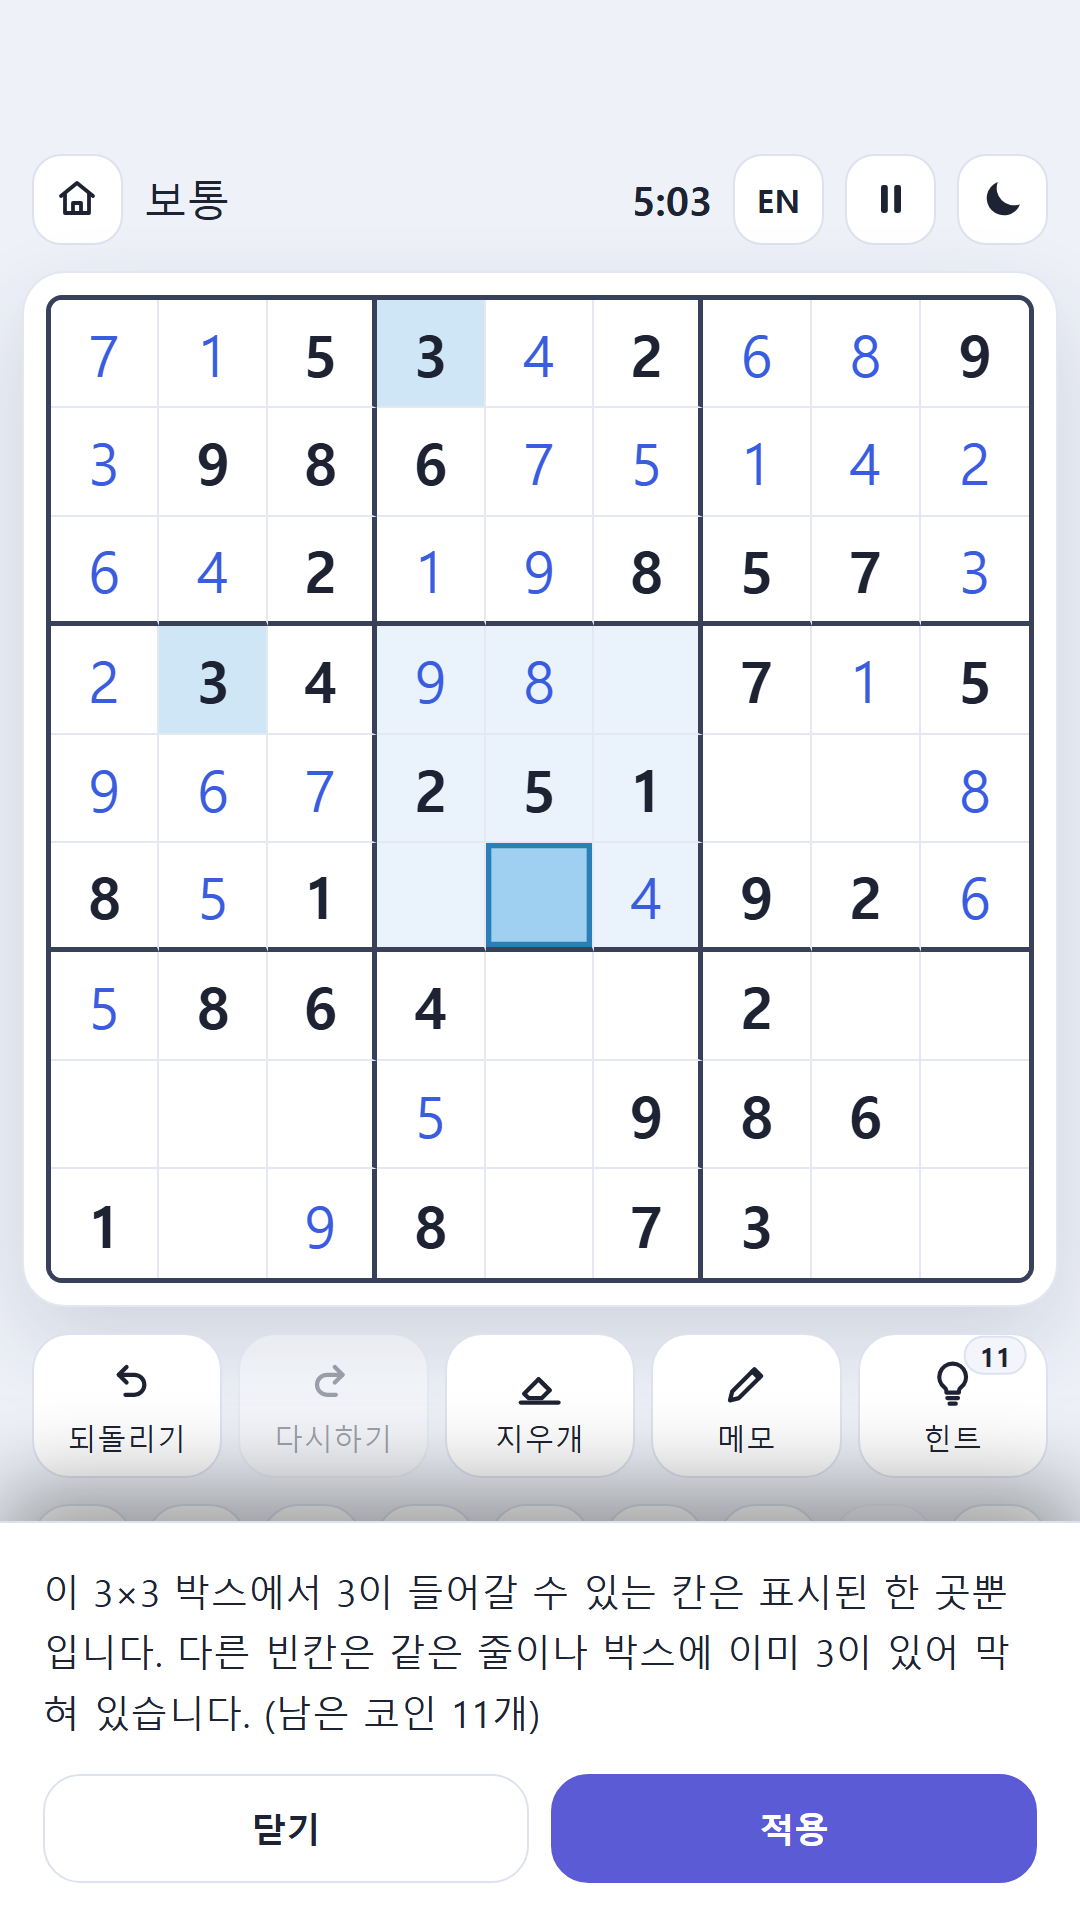
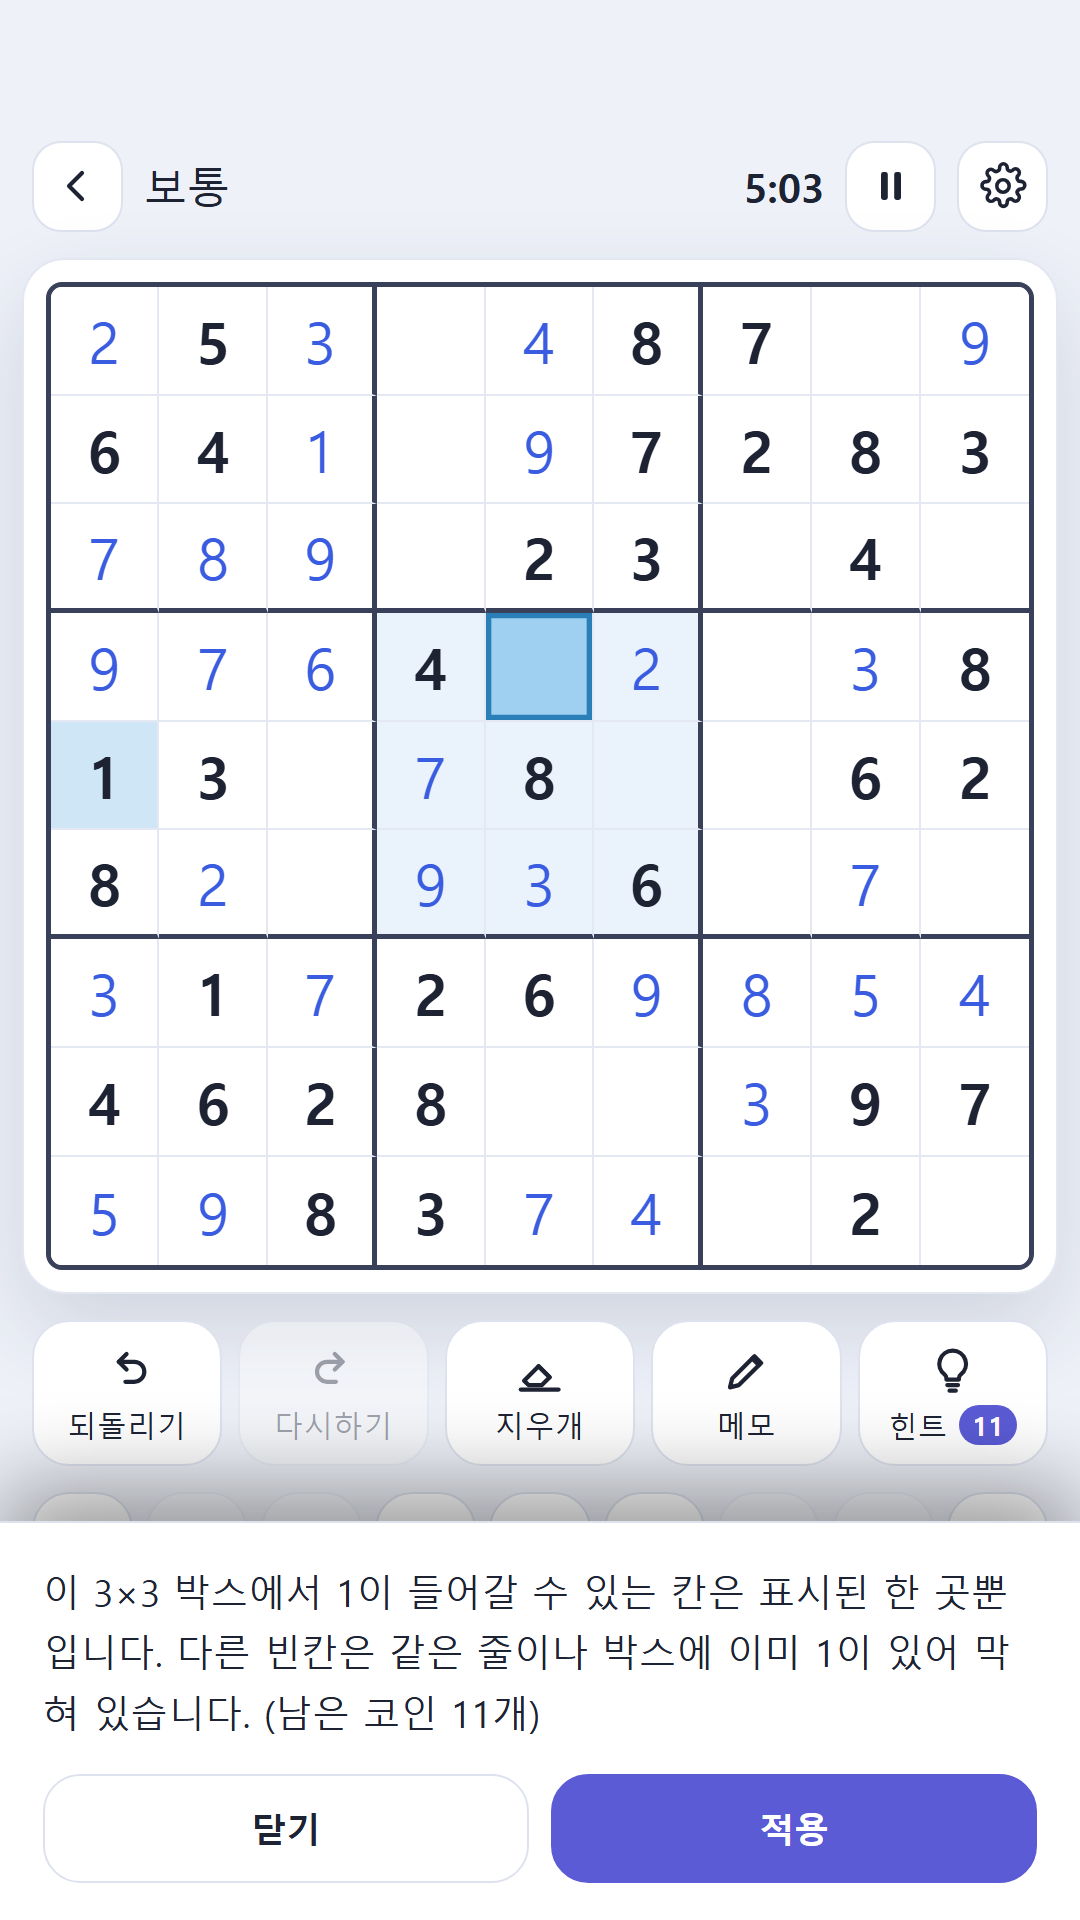
게임 화면 정리 (1-13) — 새 게임 제거·뒤로 가기·옵션·힌트 개수
하단 "새 게임"을 없앴다. 숫자 패드 바로 아래에 있어 게임 중에 잘못 누르면
판이 날아갔다. 그 자리는 2군 배너 광고(320×50)를 위해 비워 두는데, 높이는
지금부터 차지하게 했다 — 나중에 광고가 들어와도 보드 크기와 배치가 흔들리지
않는다. 새 게임은 홈과 완료 화면에서 시작한다.

헤더는 홈 아이콘을 뒤로 화살표로 바꾸고 오른쪽에 옵션(톱니)을 더했다. 버튼이
너무 많아져서, 언어와 테마는 옵션 안으로 옮겼다 — 켜고 끄는 스위치가 아니라
지금 값을 보여 주고 누르면 바뀌는 행이다. 홈 화면의 두 버튼은 그대로 둔다.

힌트에 남은 개수는 전구 우상단의 작은 회색 배지였는데, 그것이 무엇의 개수인지
읽히지 않았다. 라벨과 같은 줄에 두고 강조색 알약으로 바꿨다.

가로 폰에서 아래 칸이 41px(버튼)에서 50px(배너)로 커지며 3px 넘쳐, 숫자 키
높이 공식의 상수를 200 에서 212 로 맞췄다.

검증: 7개 뷰포트 × 6개 화면 넘침 0(설정 시트의 닫기가 화면 안에 있는지 포함 —
행이 늘어 낮은 화면에서 밀려나기에 시트 바닥에 붙였다). 테스트 332건 통과.
스토어 스크린샷 14장도 바뀐 화면으로 다시 찍었다.

Claude-Session: https://claude.ai/code/session_01WmQVhUnsNdVUHnQAEa6Dzo

diff --git a/sudoku/index.html b/sudoku/index.html
@@ -345,13 +345,15 @@ button {
 .tool[aria-pressed="true"] {
   background: var(--accent); border-color: var(--accent); color: var(--accent-ink);
 }
-/* 메모 모드일 때 몇 개 남았는지 같은 보조 표시 */
-.tool .badge {
-  position: absolute; transform: translate(16px, -8px);
-  font-size: 10px; font-weight: 700;
-  background: var(--ui-panel-2); color: var(--ui-text);
-  border: 1px solid var(--ui-line); border-radius: 999px; padding: 0 5px;
+/* 힌트에 남은 개수를 붙여 둔다. 전구 옆 작은 배지로 띄웠을 때는 그것이 무엇의
+   개수인지 읽히지 않아, 라벨과 같은 줄에 두고 색을 준다. */
+.tool-line { display: flex; align-items: center; gap: 4px; }
+.tool .count {
+  font-size: 10px; font-weight: 800; line-height: 1.5;
+  background: var(--accent); color: var(--accent-ink);
+  border-radius: 999px; padding: 0 5px; min-width: 16px; text-align: center;
 }
+.tool[aria-disabled="true"] .count { background: var(--ui-line); color: var(--ui-dim); }
 .tool { position: relative; }
 
 /* ===== 숫자 패드 ===== */
@@ -390,6 +392,9 @@ button {
   max-width: 100%;
   display: flex; gap: 8px; align-items: center;
 }
+/* 배너 광고 자리(320×50). 광고가 없는 동안에도 높이를 차지해 둔다 —
+   나중에 채워질 때 보드가 밀리지 않게 하려는 것이다. */
+.adslot { flex: 1; height: 50px; }
 .btn {
   flex: 1;
   padding: 11px 12px; border-radius: 14px;
@@ -483,6 +488,11 @@ button {
 .opt-text { display: flex; flex-direction: column; gap: 2px; margin-right: auto; }
 .opt-label { font-size: 14px; font-weight: 700; }
 .opt-sub { font-size: 11px; color: var(--ui-dim); line-height: 1.4; }
+/* 켜고 끄는 것이 아니라 값을 고르는 행 (언어 · 화면) */
+.opt-value {
+  flex: 0 0 auto; font-size: 13px; font-weight: 700; color: var(--accent);
+  padding: 4px 10px; border-radius: 999px; background: var(--accent-soft);
+}
 .switch {
   flex: 0 0 42px; width: 42px; height: 24px; border-radius: 999px;
   background: var(--ui-line); position: relative; transition: background-color .18s ease;
@@ -496,6 +506,12 @@ button {
 @media (prefers-reduced-motion: reduce) { .switch, .switch i { transition: none; } }
 
 #settingList .optrow:first-child { margin-top: 0; }
+/* 설정은 행이 많아 낮은 화면에서 시트가 스크롤된다. 닫기는 늘 바닥에 붙여 둔다. */
+#ovSettings .row {
+  position: sticky; bottom: -18px;
+  margin: 14px -20px -18px; padding: 10px 20px 18px;
+  background: var(--ui-panel);
+}
 
 /* 숫자 우선 모드에서 고른 숫자 */
 .num.picked {
@@ -568,8 +584,10 @@ ul.help span { font-size: 12.5px; color: var(--ui-dim); line-height: 1.55; }
   .pad { grid-template-columns: repeat(3, 1fr); gap: 8px; }
   /* 옆 칸은 폭이 넓어서 1:1.25 비율을 그대로 두면 키 하나가 120px 을 넘는다.
      높이는 화면에 맞춘다 — 60px 로 고정하면 360px 높이에서 옆 칸이 14px 넘쳤다
-     (헤더 42 + 도구 55 + 패드 196 + 새 게임 41 + 사이 여백 + 아래 padding 10). */
-  .num { aspect-ratio: auto; height: min(60px, calc((100vh - 200px) / 3)); font-size: 22px; }
+     (헤더 42 + 도구 55 + 패드 196 + 아래 칸 50 + 사이 여백 + 아래 padding 10).
+     빼는 값은 그 합에서 패드를 뺀 것이다. 아래 칸이 새 게임 버튼(41)에서 광고
+     자리(50)로 바뀌면서 212 가 됐다. */
+  .num { aspect-ratio: auto; height: min(60px, calc((100vh - 212px) / 3)); font-size: 22px; }
   #app > header { margin-top: 0; }
   .side > .footer { margin-bottom: 0; }
 }
@@ -613,6 +631,10 @@ ul.help span { font-size: 12.5px; color: var(--ui-dim); line-height: 1.55; }
   </symbol>
   <symbol id="i-close" viewBox="0 0 24 24" fill="none" stroke="currentColor" stroke-width="2.1" stroke-linecap="round">
     <path d="M6.5 6.5l11 11M17.5 6.5l-11 11"/>
+  </symbol>
+  <symbol id="i-back" viewBox="0 0 24 24" fill="none" stroke="currentColor" stroke-width="2.1"
+          stroke-linecap="round" stroke-linejoin="round">
+    <path d="M14.5 5.5L8 12l6.5 6.5"/>
   </symbol>
   <symbol id="i-home" viewBox="0 0 24 24" fill="none" stroke="currentColor" stroke-width="1.9"
           stroke-linecap="round" stroke-linejoin="round">
@@ -686,12 +708,11 @@ ul.help span { font-size: 12.5px; color: var(--ui-dim); line-height: 1.55; }
 
 <div id="app" hidden>
   <header>
-    <button class="icon-btn" id="btnHome" data-i18n-aria="home" aria-label="홈"><svg><use href="#i-home"/></svg></button>
+    <button class="icon-btn" id="btnHome" data-i18n-aria="back" aria-label="뒤로"><svg><use href="#i-back"/></svg></button>
     <span class="diff" id="diffBadge">보통</span>
     <span class="timer" id="timer" aria-live="off">0:00</span>
-    <button class="icon-btn lang" id="btnLang" data-i18n-aria="lang" aria-label="언어 전환">EN</button>
     <button class="icon-btn" id="btnPause" data-i18n-aria="pause" aria-label="일시정지"><svg><use href="#i-pause"/></svg></button>
-    <button class="icon-btn" id="btnTheme" data-i18n-aria="theme" aria-label="테마 전환"><svg><use href="#i-sun"/></svg></button>
+    <button class="icon-btn" id="btnGameSettings" data-i18n-aria="settings" aria-label="설정"><svg><use href="#i-gear"/></svg></button>
   </header>
 
   <div class="board-card" id="boardCard">
@@ -705,12 +726,13 @@ ul.help span { font-size: 12.5px; color: var(--ui-dim); line-height: 1.55; }
       <button class="tool" id="btnRedo"><svg><use href="#i-redo"/></svg><span data-i18n="redo">다시하기</span></button>
       <button class="tool" id="btnErase"><svg><use href="#i-eraser"/></svg><span data-i18n="erase">지우개</span></button>
       <button class="tool" id="btnNotes" aria-pressed="false"><svg><use href="#i-pencil"/></svg><span data-i18n="notes">메모</span></button>
-      <button class="tool" id="btnHint"><svg><use href="#i-bulb"/></svg><span data-i18n="hint">힌트</span><span class="badge" id="hintCoins">0</span></button>
+      <button class="tool" id="btnHint"><svg><use href="#i-bulb"/></svg><span class="tool-line"><span data-i18n="hint">힌트</span><span class="count" id="hintCoins">0</span></span></button>
     </div>
     <div class="pad" id="pad"></div>
-    <div class="footer">
-      <button class="btn primary" id="btnNew"><svg><use href="#i-new"/></svg><span data-i18n="newGame">새 게임</span></button>
-    </div>
+    <!-- 새 게임 버튼이 있던 자리. 게임 중에 잘못 눌러 판이 날아가는 일이 있어 없앴고,
+         2군의 배너 광고(320×50)를 여기에 넣는다. 지금은 비어 있지만 자리는 잡아 둔다 —
+         나중에 광고가 들어와도 보드 크기와 배치가 흔들리지 않게 하기 위해서다. -->
+    <div class="footer"><div class="adslot" id="adSlot"></div></div>
   </div>
 </div>
 
@@ -1144,7 +1166,7 @@ const I18N = {
     appName: "브레인 스도쿠 도쿠도쿠",
     appName1: "브레인 스도쿠", appName2: "도쿠도쿠",
     boardLabel: "스도쿠 보드",
-    lang: "언어 전환", pause: "일시정지", stats: "기록", theme: "테마 전환",
+    lang: "언어 전환", pause: "일시정지", stats: "기록", theme: "테마 전환", back: "뒤로",
     undo: "되돌리기", redo: "다시하기", erase: "지우개", notes: "메모", hint: "힌트",
     newGame: "새 게임", cancel: "취소", close: "닫기",
     start: "시작", startNotes: "자동 메모 사용 시작",
@@ -1195,6 +1217,9 @@ const I18N = {
     dailyDone: "완료",
     solvedCount: n => "총 " + n + "판 완료",
     help: "도움말", gotIt: "알겠습니다", settings: "설정", settingsTitle: "설정",
+    setLang: ["언어", "앱에 쓰는 말을 바꿉니다."],
+    setTheme: ["화면", "밝은 화면과 어두운 화면을 오갑니다."],
+    themeValue: { light: "밝게", dark: "어둡게" },
     setNumberFirst: ["숫자 먼저 고르기", "숫자를 고른 뒤 칸을 눌러 채웁니다. 같은 숫자를 여러 칸에 넣을 때 빠릅니다."],
     setAutoNotes: ["메모 자동 채우기", "새 게임을 시작할 때 모든 빈칸에 후보를 적어 둡니다."],
     setHaptics: ["진동", "숫자를 놓거나 퍼즐을 끝냈을 때 짧게 울립니다."],
@@ -1228,7 +1253,7 @@ const I18N = {
     appName: "Brain Sudoku Dokudoku",
     appName1: "Brain Sudoku", appName2: "Dokudoku",
     boardLabel: "Sudoku board",
-    lang: "Change language", pause: "Pause", stats: "Statistics", theme: "Toggle theme",
+    lang: "Change language", pause: "Pause", stats: "Statistics", theme: "Toggle theme", back: "Back",
     undo: "Undo", redo: "Redo", erase: "Erase", notes: "Notes", hint: "Hint",
     newGame: "New game", cancel: "Cancel", close: "Close",
     start: "Start", startNotes: "Start with auto notes",
@@ -1279,6 +1304,9 @@ const I18N = {
     dailyDone: "Done",
     solvedCount: n => n + (n === 1 ? " puzzle solved" : " puzzles solved"),
     help: "Help", gotIt: "Got it", settings: "Settings", settingsTitle: "Settings",
+    setLang: ["Language", "Change the language the app is in."],
+    setTheme: ["Appearance", "Switch between the light and dark screen."],
+    themeValue: { light: "Light", dark: "Dark" },
     setNumberFirst: ["Pick the number first", "Choose a number, then tap cells to place it. Faster when filling the same digit repeatedly."],
     setAutoNotes: ["Fill notes automatically", "Write every candidate into the empty cells when a game starts."],
     setHaptics: ["Vibration", "A short buzz when you place a number or finish a puzzle."],
@@ -2046,6 +2074,9 @@ function computeAutoNotes(st) {
 
 /* ---------- 설정 시트 ---------- */
 const SETTING_ROWS = [
+  // 켜고 끄는 것이 아니라 값을 고르는 행. 게임 헤더가 좁아 옵션 안으로 옮겼다.
+  { key: "lang",  i18n: "setLang",  pick: () => (LANG === "en" ? "English" : "한국어") },
+  { key: "theme", i18n: "setTheme", pick: () => L().themeValue[themeNow()] },
   { key: "numberFirst", i18n: "setNumberFirst" },
   { key: "autoNotes",   i18n: "setAutoNotes" },   // 저장 위치가 달라 따로 다룬다
   { key: "haptics",     i18n: "setHaptics" },
@@ -2057,6 +2088,8 @@ function settingOn(key) {
   return key === "autoNotes" ? autoNotesOn() : !!settings[key];
 }
 
+const themeNow = () => (document.documentElement.dataset.theme === "dark" ? "dark" : "light");
+
 function openSettings() {
   const list = $("settingList");
   list.textContent = "";
@@ -2065,7 +2098,7 @@ function openSettings() {
     const b = document.createElement("button");
     b.className = "optrow";
     b.dataset.key = row.key;
-    b.setAttribute("aria-pressed", String(settingOn(row.key)));
+    if (!row.pick) b.setAttribute("aria-pressed", String(settingOn(row.key)));
 
     const txt = document.createElement("span");
     txt.className = "opt-text";
@@ -2073,11 +2106,18 @@ function openSettings() {
     const sb = document.createElement("span"); sb.className = "opt-sub"; sb.textContent = sub;
     txt.append(l, sb);
 
-    const sw = document.createElement("span");
-    sw.className = "switch";
-    sw.appendChild(document.createElement("i"));
+    let right;
+    if (row.pick) {
+      right = document.createElement("span");
+      right.className = "opt-value";
+      right.textContent = row.pick();
+    } else {
+      right = document.createElement("span");
+      right.className = "switch";
+      right.appendChild(document.createElement("i"));
+    }
 
-    b.append(txt, sw);
+    b.append(txt, right);
     list.appendChild(b);
   }
   openOverlay("ovSettings");
@@ -2302,9 +2342,7 @@ function applyLang(lang) {
   }
 
   // 버튼에는 지금 언어가 아니라 "누르면 갈 언어"를 보여 준다.
-  const other = LANG === "ko" ? "EN" : "한";
-  $("btnLang").textContent = other;
-  $("btnLangHome").textContent = other;
+  $("btnLangHome").textContent = LANG === "ko" ? "EN" : "한";
 
   numEls.forEach((n, i) => n.btn.setAttribute("aria-label", L().padEnter(i + 1)));
   renderDiffList();
@@ -2316,10 +2354,8 @@ function applyLang(lang) {
 
 function applyTheme(t) {
   document.documentElement.dataset.theme = t;
-  for (const id of ["btnTheme", "btnThemeHome"]) {
-    const u = $(id).querySelector("use");
-    if (u) u.setAttribute("href", t === "dark" ? "#i-sun" : "#i-moon");
-  }
+  const u = $("btnThemeHome").querySelector("use");
+  if (u) u.setAttribute("href", t === "dark" ? "#i-sun" : "#i-moon");
   const meta = document.querySelector('meta[name="theme-color"]');
   if (meta) meta.setAttribute("content", t === "dark" ? "#111420" : "#eef1f8");
   store(KEY_THEME, t);
@@ -2388,7 +2424,6 @@ $("btnStatsReset").addEventListener("click", () => {
   askConfirm(L().clearTitle, L().clearDesc, L().clearYes,
              () => { drop(KEY_STATS); openStats(); });
 });
-$("btnNew").addEventListener("click", openNewGame);
 $("btnNewCancel").addEventListener("click", () => {
   closeOverlay();
   if (view === "game" && S && !S.done) startTimer();
@@ -2401,12 +2436,10 @@ $("btnStartPlain").addEventListener("click", () => startFromSheet(false));
 $("btnStartNotes").addEventListener("click", () => startFromSheet(true));
 $("btnResultClose").addEventListener("click", closeOverlay);
 $("btnResultNew").addEventListener("click", openNewGame);
-$("btnTheme").addEventListener("click", toggleTheme);
 function toggleLang() { applyLang(LANG === "ko" ? "en" : "ko"); buzz(6); }
 function toggleTheme() {
   applyTheme(document.documentElement.dataset.theme === "dark" ? "light" : "dark");
 }
-$("btnLang").addEventListener("click", toggleLang);
 $("btnLangHome").addEventListener("click", toggleLang);
 $("btnThemeHome").addEventListener("click", toggleTheme);
 
@@ -2427,11 +2460,15 @@ $("btnHomeResume").addEventListener("click", () => {
   startTimer();
 });
 $("btnSettings").addEventListener("click", openSettings);
+$("btnGameSettings").addEventListener("click", () => { stopTimer(); openSettings(); });
 $("btnSettingsClose").addEventListener("click", closeOverlay);
 $("settingList").addEventListener("click", e => {
   const row = e.target.closest(".optrow");
   if (!row) return;
   const key = row.dataset.key;
+  // 값을 고르는 행은 눌러서 돌린다. 목록 전체를 다시 그려야 글자도 바뀐다.
+  if (key === "lang")  { toggleLang();  openSettings(); return; }
+  if (key === "theme") { toggleTheme(); openSettings(); return; }
   const next = row.getAttribute("aria-pressed") !== "true";
   if (key === "autoNotes") store(KEY_AUTONOTE, next);
   else setSetting(key, next);

diff --git a/sudoku/test/game.test.js b/sudoku/test/game.test.js
@@ -308,9 +308,14 @@ const ok = (n, c, e) => { if (c) pass++; else { fail++; console.log("  실패: "
     ok("잘못된 값은 기본값으로", T.settings.haptics === T.SETTING_DEFAULTS.haptics);
     ok("모르는 항목은 무시한다", T.settings.bogus === undefined);
 
+    // 켜고 끄는 행은 설정 기본값 전부 + 저장 위치가 다른 autoNotes 하나
+    const toggles = T.SETTING_ROWS.filter(r => !r.pick);
     ok("설정 목록이 모든 항목을 덮는다",
-       T.SETTING_ROWS.length === Object.keys(T.SETTING_DEFAULTS).length + 1,
-       `${T.SETTING_ROWS.length} rows`);
+       toggles.length === Object.keys(T.SETTING_DEFAULTS).length + 1,
+       `${toggles.length} toggles`);
+    // 값을 고르는 행(언어 · 화면)은 게임 헤더에서 옮겨 온 것이다
+    ok("값을 고르는 행이 둘 있다",
+       T.SETTING_ROWS.filter(r => r.pick).map(r => r.key).join(",") === "lang,theme");
   }
 
   console.log("== 17. 숫자 우선 입력 ==");

diff --git a/sudoku/BACKLOG.md b/sudoku/BACKLOG.md
@@ -41,6 +41,7 @@
 | 1-8 | 설정 화면 | **완료** | Home 의 톱니 버튼. 숫자 먼저 고르기 · 메모 자동 채우기 · 진동 · 오류 표시 · 시간 표시 다섯 가지 |
 | 1-9 | 첫 실행 사용법 안내 | **완료** | 첫 실행에 한 번 뜨고, 이후에는 Home 의 물음표 버튼으로 언제든 볼 수 있다. 입력·규칙·메모·힌트·데일리 다섯 가지 |
 | 1-10 | 입력 편의 — 숫자 우선 모드 | **완료** | 설정에서 켠다. 고른 숫자가 패드에서 강조되고 같은 숫자가 든 칸이 함께 보인다. 같은 숫자를 다시 누르면 해제 |
+| 1-13 | **게임 화면 정리** — 하단 새 게임 제거(광고 자리로 예약) · 상단 뒤로 가기 · 상단 오른쪽 옵션 · 힌트 남은 개수 | **완료** | 게임 중에 하단 "새 게임"을 잘못 눌러 판이 날아가는 일이 있어 없앴다. 그 자리는 2군 배너(320×50)를 위해 비워 두되 **높이는 지금부터 차지한다** — 나중에 광고가 들어와도 보드가 밀리지 않는다. 헤더는 홈 아이콘을 뒤로 화살표로 바꾸고 톱니(옵션)를 더했다. 자리를 내주려고 헤더의 언어·테마 버튼은 옵션 안으로 옮겼다(값을 고르는 행 두 개). 힌트 개수는 전구 옆 작은 배지에서 라벨과 같은 줄의 색 있는 알약으로 바꿨다 — 무엇의 개수인지 읽히지 않았다 |
 | 1-12 | **난이도 선택 시트 정리** — 난이도는 고르기만 하고, 시작은 아래 두 버튼으로 | **완료** | 난이도 이름을 가운데 정렬하고 "빈칸 xx개"를 없앴다. 고르면 바로 시작하던 것을 선택만 하도록 바꾸고, 아래에 "시작" / "자동 메모 사용 시작" 두 버튼을 뒀다(자동 메모 스위치를 대체한다). 취소 버튼은 우상단 X 로 바꿨다. 지난번에 고른 난이도를 기억한다(`KEY_LASTDIFF`) |
 | 1-11 | 접근성 — 스크린리더 지원 | **1차 완료** | 칸마다 "3행 5열, 7" 같은 이름과 행/열 인덱스, 선택 상태, given 여부를 넣었다. 탭 순서는 고른 칸 하나만(roving tabindex). 힌트·완료는 화면 밖 알림 영역으로 읽힌다. 실제 스크린리더 검증은 실기기에서 필요 |
 
@@ -53,7 +54,7 @@
 | 2-1 | **난이도별 점수 획득 구조** | **로컬 부분 완료** | 점수·레벨은 1-5 에서 기기 안에 구현했다(`scoreFor`, `levelOf`). 남은 것은 등수와 엮는 부분뿐이고 그때 서버가 필요하다 |
 | 2-2 | **주간 등수** | 대기 | 서버 + 사용자 식별 필요. 부정 점수 방지(클라이언트 값을 그대로 믿을 수 없음)까지 설계해야 한다 |
 | 2-3 | **대결** — 요청하면 응하는 사람과 매칭해 겨루고 점수에 반영 | 대기 | 실시간 매칭 서버, 계정, 접속 관리. 2군에서 가장 큰 항목이다. 같은 문제를 동시에 풀고 먼저 끝내는 방식인지 등 규칙부터 정해야 한다 |
-| 2-4 | **새 게임 시 광고 시청** | 대기 | 광고 SDK(AdMob 등) + 인터넷 권한. 광고 ID 정책 신고 필요 |
+| 2-4 | **새 게임 시 광고 시청** | 대기 | 광고 SDK(AdMob 등) + 인터넷 권한. 광고 ID 정책 신고 필요. **배너 자리는 1-13 에서 이미 잡아 뒀다** (`#adSlot`, 게임 화면 맨 아래 50px) |
 | 2-5 | **자동 노트를 코인 또는 멤버십으로 제공** (초기 5번 기본 제공) | 대기 | 1-6 이 먼저 있어야 한다 |
 | 2-6 | **광고 제거를 코인 또는 멤버십으로 제공** (초기 5번 기본 제공) | **확인필요** | "초기 5번"이 *광고 5회 면제*인지 *5일치*인지 확인이 필요하다 |
 | 2-7 | **멤버십 가격** — 1주 1,000원 / 2주 1,500원 / 1달 3,000원 | 대기 | Play 정기결제 상품으로 등록. 디지털 상품이므로 **Play 결제 시스템을 반드시 써야 한다**(수수료 발생) |
